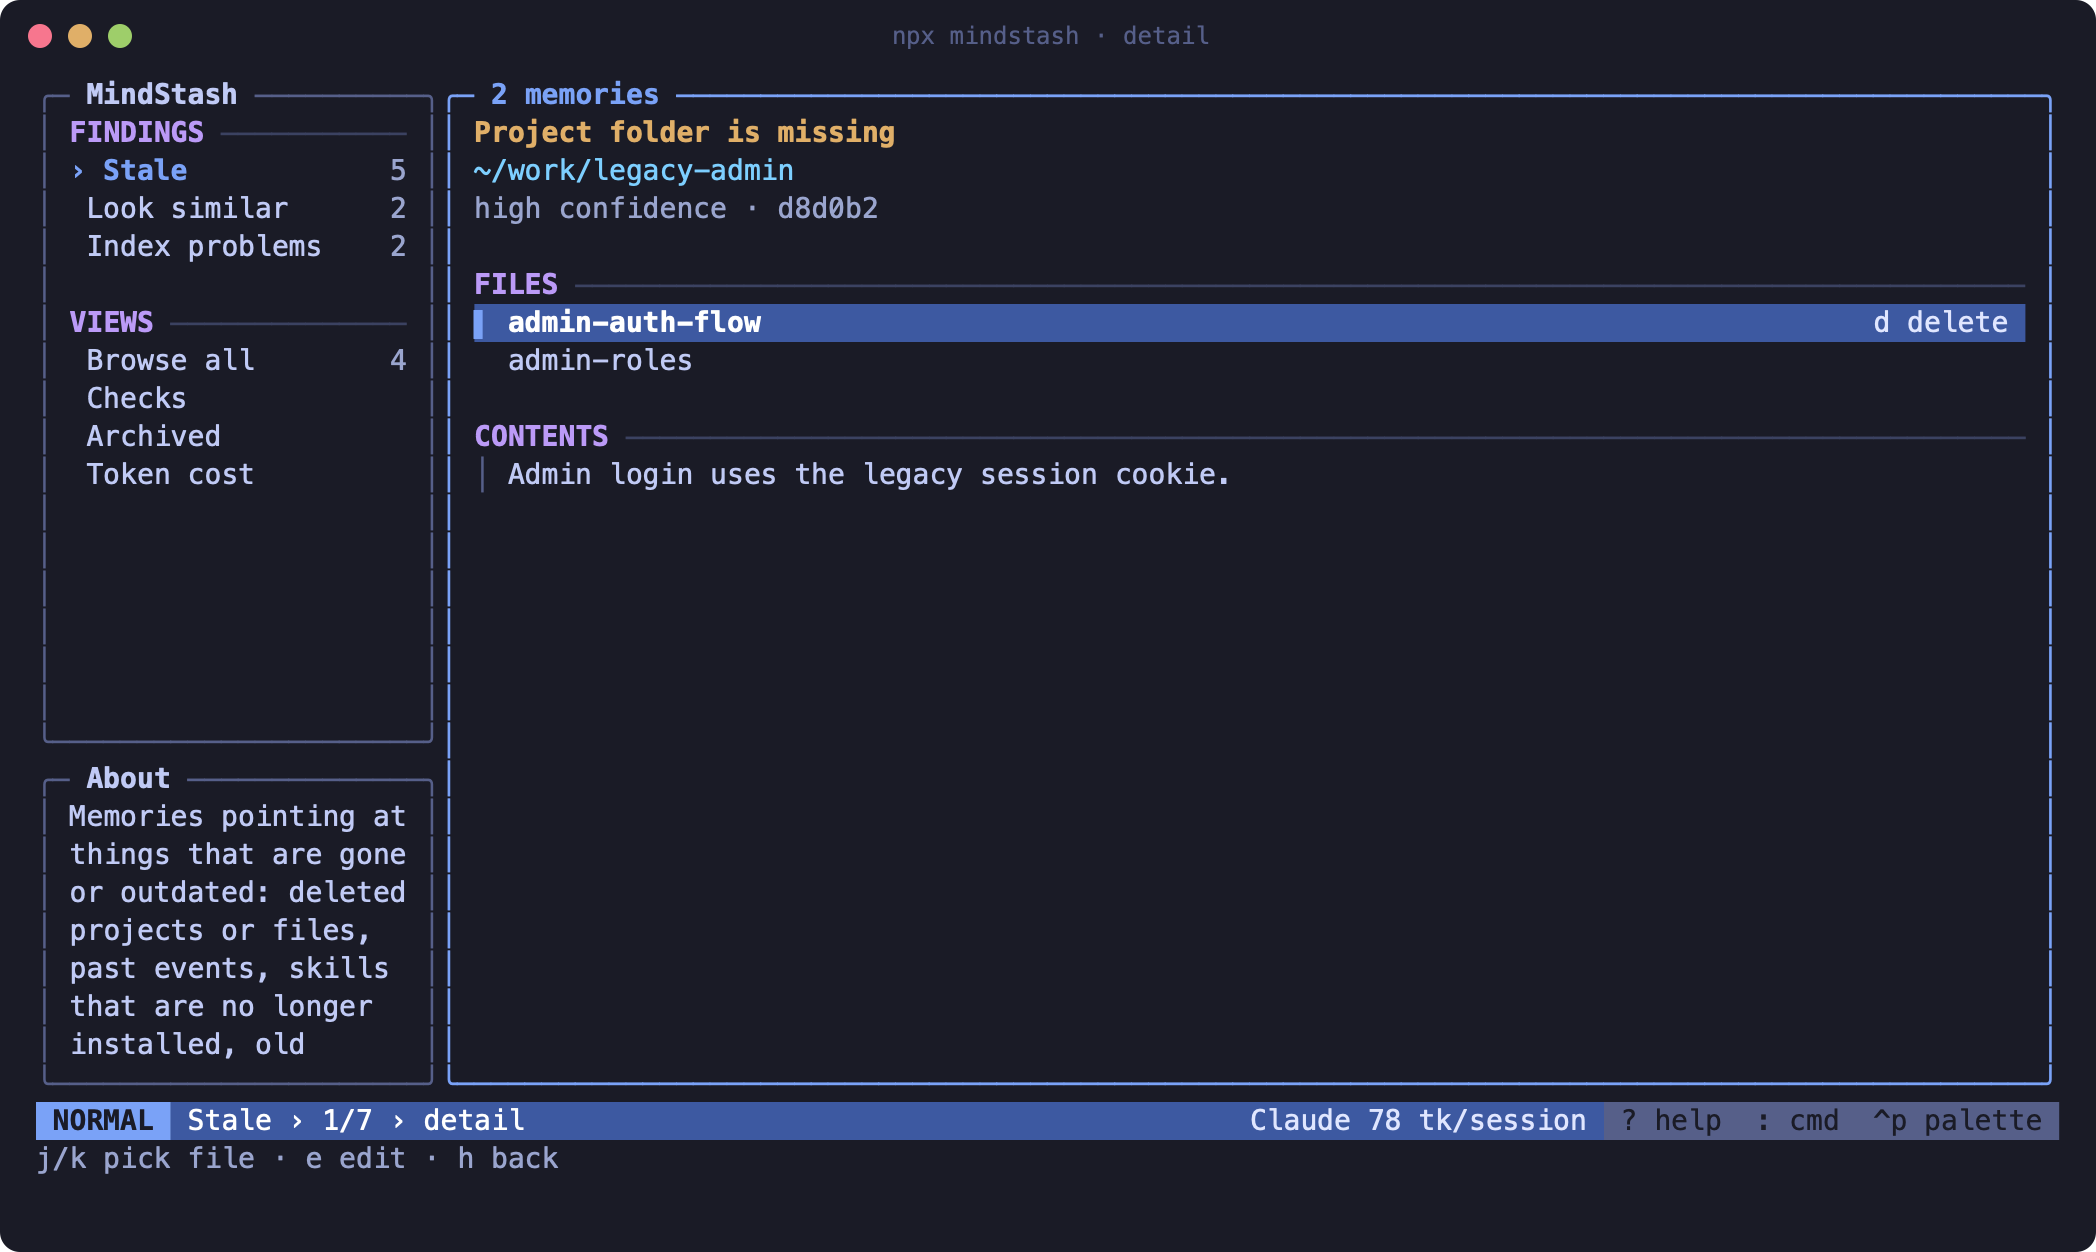
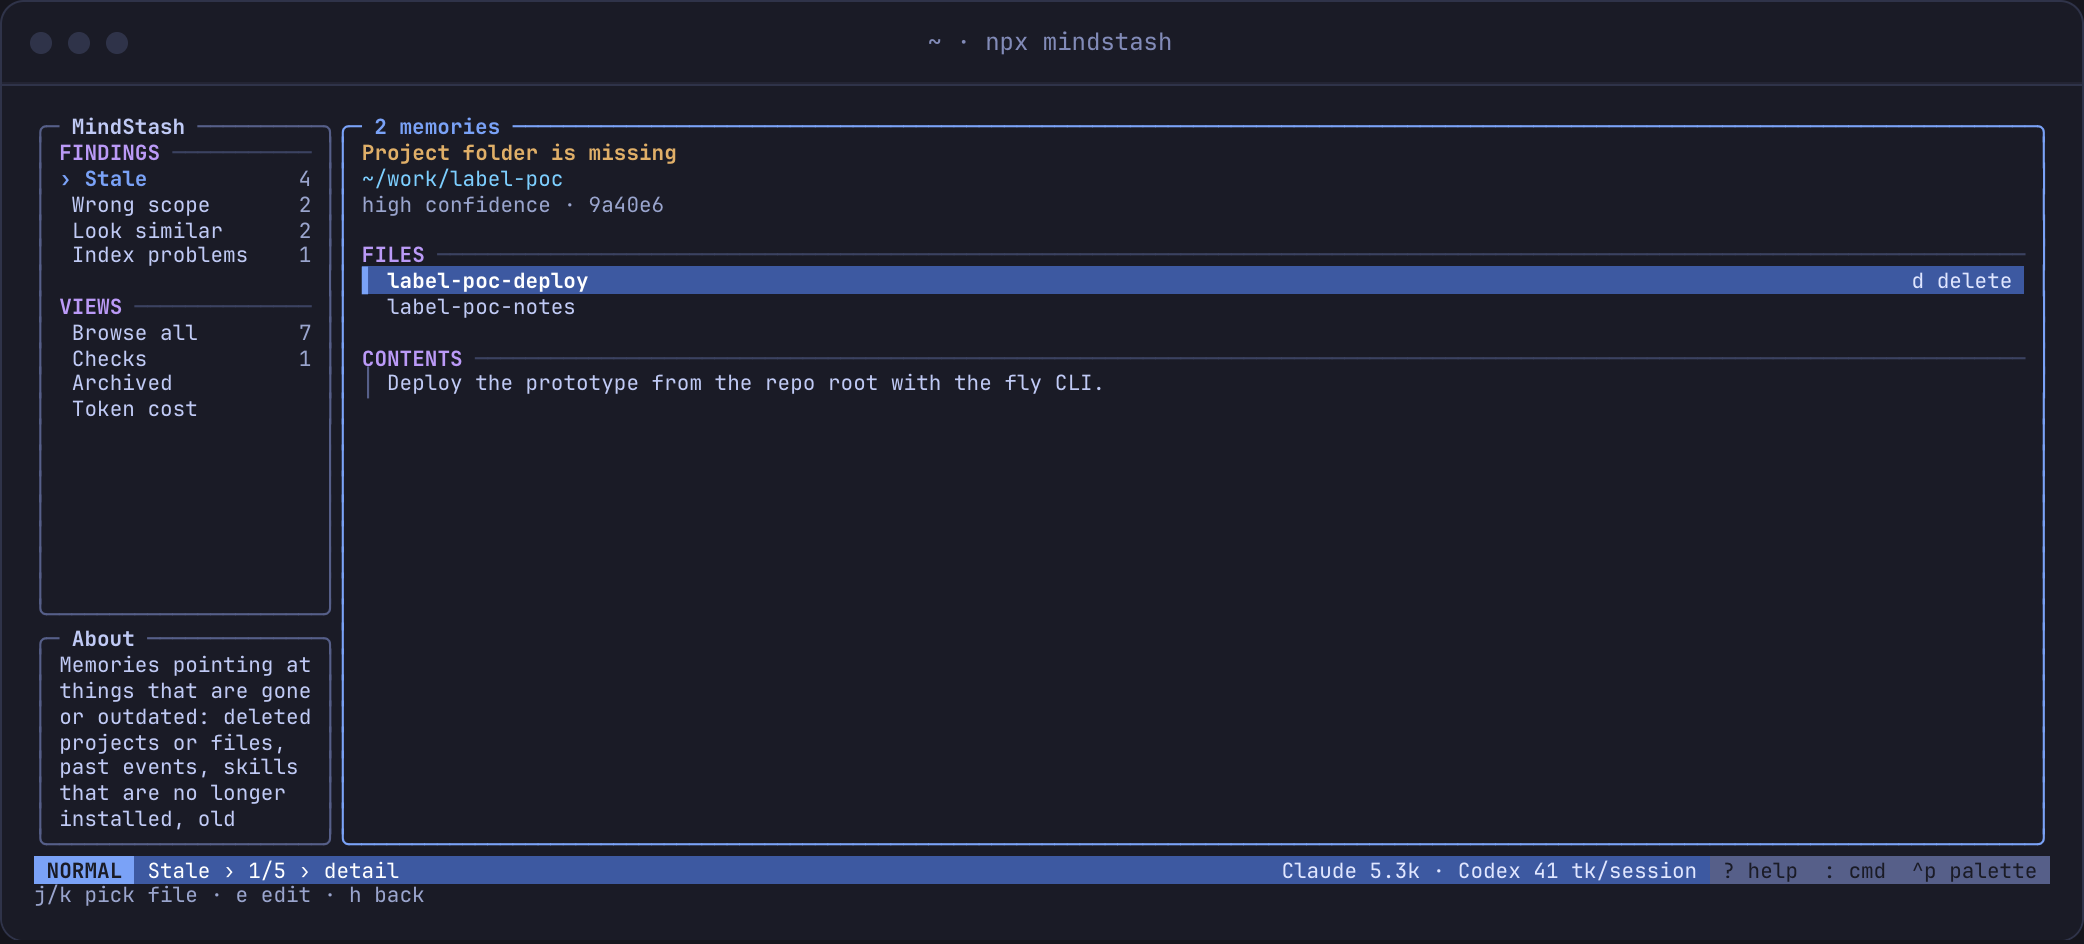
Capture README screenshots from the landing page

Changed region(s): [[0.0, 0.0, 1.0, 1.0], [0.0, 0.9831, 0.0312, 1.0]]

diff --git a/scripts/screenshots.tsx b/scripts/screenshots.tsx
@@ -1,190 +1,30 @@
-/**
- * Renders README PNG screenshots from a made-up demo setup (no real user data).
- * Run on macOS: FORCE_COLOR=3 npx tsx scripts/screenshots.tsx
- */
-import { execFileSync } from 'node:child_process';
-import { existsSync, mkdirSync, mkdtempSync, readFileSync, realpathSync, rmSync, writeFileSync } from 'node:fs';
-import { tmpdir } from 'node:os';
-import { dirname, join } from 'node:path';
-import { render } from 'ink-testing-library';
-import { App } from '../src/tui/App.js';
-import { setTheme } from '../src/tui/theme.js';
-import { scan } from '../src/core/scan.js';
-import { sanitizePath } from '../src/core/text.js';
-import type { ScanContext } from '../src/core/types.js';
+/** Exports the landing page's terminal windows as README PNGs. */
+import { mkdirSync } from 'node:fs';
+import { join } from 'node:path';
+import { fileURLToPath } from 'node:url';
+import { chromium } from 'playwright-core';
 
-const root = realpathSync(mkdtempSync(join(tmpdir(), 'mindstash-demo-')));
-const home = join(root, 'home');
-const ctx: ScanContext = {
-  home,
-  claudeDir: join(home, '.claude'),
-  codexDir: join(home, '.codex'),
-  mindstashDir: join(home, '.mindstash'),
-  now: new Date('2026-11-05T00:00:00Z'),
-};
-setTheme('tokyo-night', {});
+const site = new URL('../site/index.html', import.meta.url);
+const output = fileURLToPath(new URL('../docs/screenshots/', import.meta.url));
+mkdirSync(output, { recursive: true });
 
-const write = (p: string, c: string) => {
-  mkdirSync(dirname(p), { recursive: true });
-  writeFileSync(p, c);
-};
-const project = (rel: string, files: Record<string, string> = {}, git = true) => {
-  const dir = join(home, rel);
-  mkdirSync(dir, { recursive: true });
-  for (const [f, c] of Object.entries(files)) write(join(dir, f), c);
-  if (git) {
-    execFileSync('git', ['init', '-q'], { cwd: dir });
-    execFileSync('git', ['add', '-A'], { cwd: dir });
-    execFileSync('git', ['-c', 'user.name=d', '-c', 'user.email=d@d', 'commit', '-qm', 'i', '--allow-empty'], { cwd: dir });
-  }
-  return dir;
-};
-const memory = (dir: string, file: string, name: string, desc: string, body: string, opts: { modified?: string; indexed?: boolean } = {}) => {
-  const mdir = join(ctx.claudeDir, 'projects', sanitizePath(dir), 'memory');
-  write(join(mdir, file), `---\nname: ${name}\ndescription: ${desc}\nmetadata:\n  type: project\n${opts.modified ? `  modified: ${opts.modified}\n` : ''}---\n\n${body}\n`);
-  if (opts.indexed !== false) {
-    const idx = join(mdir, 'MEMORY.md');
-    const cur = existsSync(idx) ? readFileSync(idx, 'utf8') : '';
-    write(idx, cur + `- [${name}](${file}) — ${desc}\n`);
-  }
-};
-const skill = (dir: string, name: string, desc: string) => write(join(dir, name, 'SKILL.md'), `---\nname: ${name}\ndescription: ${desc}\n---\n\n# ${name}\n`);
-
-const api = project('work/shop-api', { 'package.json': JSON.stringify({ engines: { node: '>=22' } }), 'src/server.ts': 'x', 'src/routes/orders.ts': 'x' });
-const web = project('work/storefront', { 'src/app.tsx': 'x' });
-const gone = join(home, 'work', 'legacy-admin');
-memory(api, 'node-setup.md', 'node-setup', 'build setup', 'Always build and test the API with Node 16; CI images are pinned to it.');
-memory(api, 'old-endpoints.md', 'old-endpoints', 'v1 routes', 'Order endpoints live in `src/api/v1/orders.ts`; keep the v1 response shape.');
-memory(api, 'concise.md', 'concise-responses', 'answer style', 'Keep responses short and skimmable; the user reads quickly and wants answers first, no fluff.');
-memory(api, 'short.md', 'prefers-short-answers', 'answer style', 'Keep responses short and skimmable; the user reads quickly and wants the answer first, no fluff at all.');
-memory(api, 'payments.md', 'payments-retry-rules', 'payments', 'Retries use exponential backoff capped at 5 attempts; idempotency keys come from the order id.', { indexed: false });
-memory(web, 'hackathon.md', 'hackathon-notes', 'event', 'User is at the Storefront hackathon Oct 15–18 2026; keep answers short and skip refactors.', { modified: '2026-10-10T10:00:00Z' });
-memory(web, 'deploy.md', 'deploy-checklist', 'deploys', 'Run `/release-notes-gen` before every deploy so the changelog stays current.');
-memory(gone, 'auth.md', 'admin-auth-flow', 'auth', 'Admin login uses the legacy session cookie.');
-memory(gone, 'roles.md', 'admin-roles', 'roles', 'Roles are owner, manager and viewer.');
-write(join(web, 'CLAUDE.md'), `# Storefront\n\nUse pnpm.\n\n## History\n\n${Array.from({ length: 420 }, (_, i) => `- 2026-0${(i % 9) + 1}-1${i % 9} shipped change ${i} to checkout`).join('\n')}\n`);
-skill(join(ctx.claudeDir, 'skills'), 'use-railway', 'Deploy and manage services on Railway.');
-skill(join(ctx.claudeDir, 'skills'), 'pr-writer', 'Write pull request descriptions.');
-for (const s of ['aws-cdk', 'aws-lambda', 'docker', 'postgres', 'react-ui']) skill(join(ctx.claudeDir, 'skills'), s, `Help with ${s}.`);
-const plugin = join(ctx.claudeDir, 'plugins', 'cache', 'mp', 'railway', '1.0.0');
-skill(join(plugin, 'skills'), 'use-railway', 'Deploy and manage services on Railway.');
-write(join(ctx.claudeDir, 'plugins', 'installed_plugins.json'), JSON.stringify({ version: 2, plugins: { 'railway@mp': [{ installPath: plugin }] } }));
-
-/* ---------------------------------------------------------------- ANSI → SVG */
-
-type Style = { fg?: string; bg?: string; bold?: boolean; dim?: boolean };
-const BASIC = ['#1a1b26', '#f7768e', '#9ece6a', '#e0af68', '#7aa2f7', '#bb9af7', '#7dcfff', '#c0caf5'];
-
-function cells(frame: string): { ch: string; s: Style }[][] {
-  return frame.split('\n').map((line) => {
-    const out: { ch: string; s: Style }[] = [];
-    let s: Style = {};
-    for (let i = 0; i < line.length; ) {
-      if (line[i] === '\u001b' && line[i + 1] === '[') {
-        const end = line.indexOf('m', i);
-        const codes = line.slice(i + 2, end).split(';').map(Number);
-        for (let k = 0; k < codes.length; k++) {
-          const c = codes[k]!;
-          if (c === 0) s = {};
-          else if (c === 1) s = { ...s, bold: true };
-          else if (c === 2) s = { ...s, dim: true };
-          else if (c === 22) s = { ...s, bold: false, dim: false };
-          else if (c === 39) s = { ...s, fg: undefined };
-          else if (c === 49) s = { ...s, bg: undefined };
-          else if (c === 7) s = { ...s, fg: s.bg ?? '#1a1b26', bg: s.fg ?? '#c0caf5' };
-          else if ((c === 38 || c === 48) && codes[k + 1] === 2) {
-            const hex = '#' + codes.slice(k + 2, k + 5).map((n) => n.toString(16).padStart(2, '0')).join('');
-            s = c === 38 ? { ...s, fg: hex } : { ...s, bg: hex };
-            k += 4;
-          } else if (c >= 30 && c <= 37) s = { ...s, fg: BASIC[c - 30] };
-          else if (c >= 90 && c <= 97) s = { ...s, fg: BASIC[c - 90] };
-          else if (c >= 40 && c <= 47) s = { ...s, bg: BASIC[c - 40] };
-        }
-        i = end + 1;
-        continue;
-      }
-      const cp = line.codePointAt(i)!;
-      const ch = String.fromCodePoint(cp);
-      out.push({ ch, s });
-      i += ch.length;
-    }
-    return out;
-  });
-}
-
-function svg(frame: string, title: string): string {
-  const grid = cells(frame);
-  const cw = 8.43;
-  const lh = 19;
-  const pad = 18;
-  const top = 38;
-  const cols = Math.max(...grid.map((r) => r.length));
-  const w = Math.ceil(cols * cw + pad * 2);
-  const h = Math.ceil(grid.length * lh + top + pad);
-  const esc = (t: string) => t.replace(/&/g, '&amp;').replace(/</g, '&lt;').replace(/>/g, '&gt;');
-  const parts: string[] = [];
-  grid.forEach((row, y) => {
-    let x = 0;
-    while (x < row.length) {
-      const st = row[x]!.s;
-      let e = x;
-      while (e < row.length && JSON.stringify(row[e]!.s) === JSON.stringify(st)) e++;
-      const text = row.slice(x, e).map((c) => c.ch).join('');
-      const px = pad + x * cw;
-      const py = top + y * lh;
-      if (st.bg) parts.push(`<rect x="${px.toFixed(1)}" y="${py}" width="${((e - x) * cw).toFixed(1)}" height="${lh}" fill="${st.bg}"/>`);
-      // One <text> per word at its exact column, so renderers can't collapse or stretch spacing.
-      for (const m of text.matchAll(/\S+/g)) {
-        const wx = pad + (x + m.index!) * cw;
-        parts.push(
-          `<text x="${wx.toFixed(1)}" y="${py + 14}" fill="${st.fg ?? '#c0caf5'}"${st.bold ? ' font-weight="700"' : ''}${st.dim ? ' opacity="0.6"' : ''}>${esc(m[0])}</text>`,
-        );
-      }
-      x = e;
-    }
-  });
-  return `<svg xmlns="http://www.w3.org/2000/svg" width="${w * 2}" height="${h * 2}" viewBox="0 0 ${w} ${h}" role="img" aria-label="${esc(title)}">
-<rect width="${w}" height="${h}" rx="10" fill="#1a1b26"/>
-<circle cx="20" cy="18" r="6" fill="#f7768e"/><circle cx="40" cy="18" r="6" fill="#e0af68"/><circle cx="60" cy="18" r="6" fill="#9ece6a"/>
-<text x="${w / 2}" y="22" fill="#565f89" font-size="12" text-anchor="middle" font-family="Menlo">${esc(title)}</text>
-<g font-family="Menlo" font-size="14" xml:space="preserve">
-${parts.join('\n')}
-</g>
-</svg>
-`;
-}
-
-/* ---------------------------------------------------------------- shots */
-
-const tick = (ms = 80) => new Promise((r) => setTimeout(r, ms));
-const out = join(process.cwd(), 'docs', 'screenshots');
-mkdirSync(out, { recursive: true });
-
-const result = await scan(ctx);
-async function shot(name: string, title: string, keys: string[]) {
-  const ui = render(<App ctx={ctx} firstRun={false} selfCommand="mindstash" initialResult={result} onEdit={() => {}} />);
-  await tick();
-  Object.defineProperty(ui.stdout, 'columns', { value: 120 });
-  ui.stdout.emit('resize');
-  await tick();
-  for (const k of keys) {
-    ui.stdin.write(k);
-    await tick();
-  }
-  const frame = ui.lastFrame();
-  ui.unmount();
-  if (!frame) throw new Error(`No terminal frame captured for ${name}`);
-  const source = join(root, `${name}.svg`);
-  writeFileSync(source, svg(frame, title));
-  execFileSync('sips', ['-s', 'format', 'png', source, '--out', join(out, `${name}.png`)]);
-  console.log('wrote', name);
-}
-
+const browser = await chromium.launch({ channel: 'chrome' });
 try {
-  await shot('main', 'npx mindstash', ['j', 'j']);
-  await shot('detail', 'npx mindstash · detail', ['l']);
-  await shot('palette', 'npx mindstash · Ctrl-P', ['\u0010', 'r', 'a', 'i', 'l']);
+  const page = await browser.newPage({
+    viewport: { width: 1280, height: 900 },
+    deviceScaleFactor: 2,
+  });
+  // The terminal font is bundled with the site. The rest of the capture runs offline.
+  await page.route('https://**', (route) => route.abort());
+  await page.goto(site.href);
+  await page.addStyleTag({ content: '.window figcaption, .window .caption { display: none; }' });
+  await page.evaluate(() => document.fonts.ready.then(() => undefined));
+
+  await page.locator('.hero .window').screenshot({ path: join(output, 'main.png') });
+  for (const name of ['detail', 'palette']) {
+    await page.locator(`#tab-${name}`).click();
+    await page.locator('#how .window').screenshot({ path: join(output, `${name}.png`) });
+  }
 } finally {
-  rmSync(root, { recursive: true, force: true });
+  await browser.close();
 }
-process.exit(0);

diff --git a/README.md b/README.md
@@ -94,7 +94,7 @@ npm run dev -- scan
 npm run site:screens   # re-render the landing page's terminal screens from the real UI
 ```
 
-To regenerate the README screenshots from demo data on macOS, run `FORCE_COLOR=3 npx tsx scripts/screenshots.tsx`.
+After refreshing the site screens, run `npx tsx scripts/screenshots.tsx` to export the same terminal views as README PNGs. The export uses a local Google Chrome installation.
 
 Env: `CLAUDE_CONFIG_DIR` (default `~/.claude`), `CODEX_HOME` (default `~/.codex`), `MINDSTASH_HOME` (default `~/.mindstash`).
 
